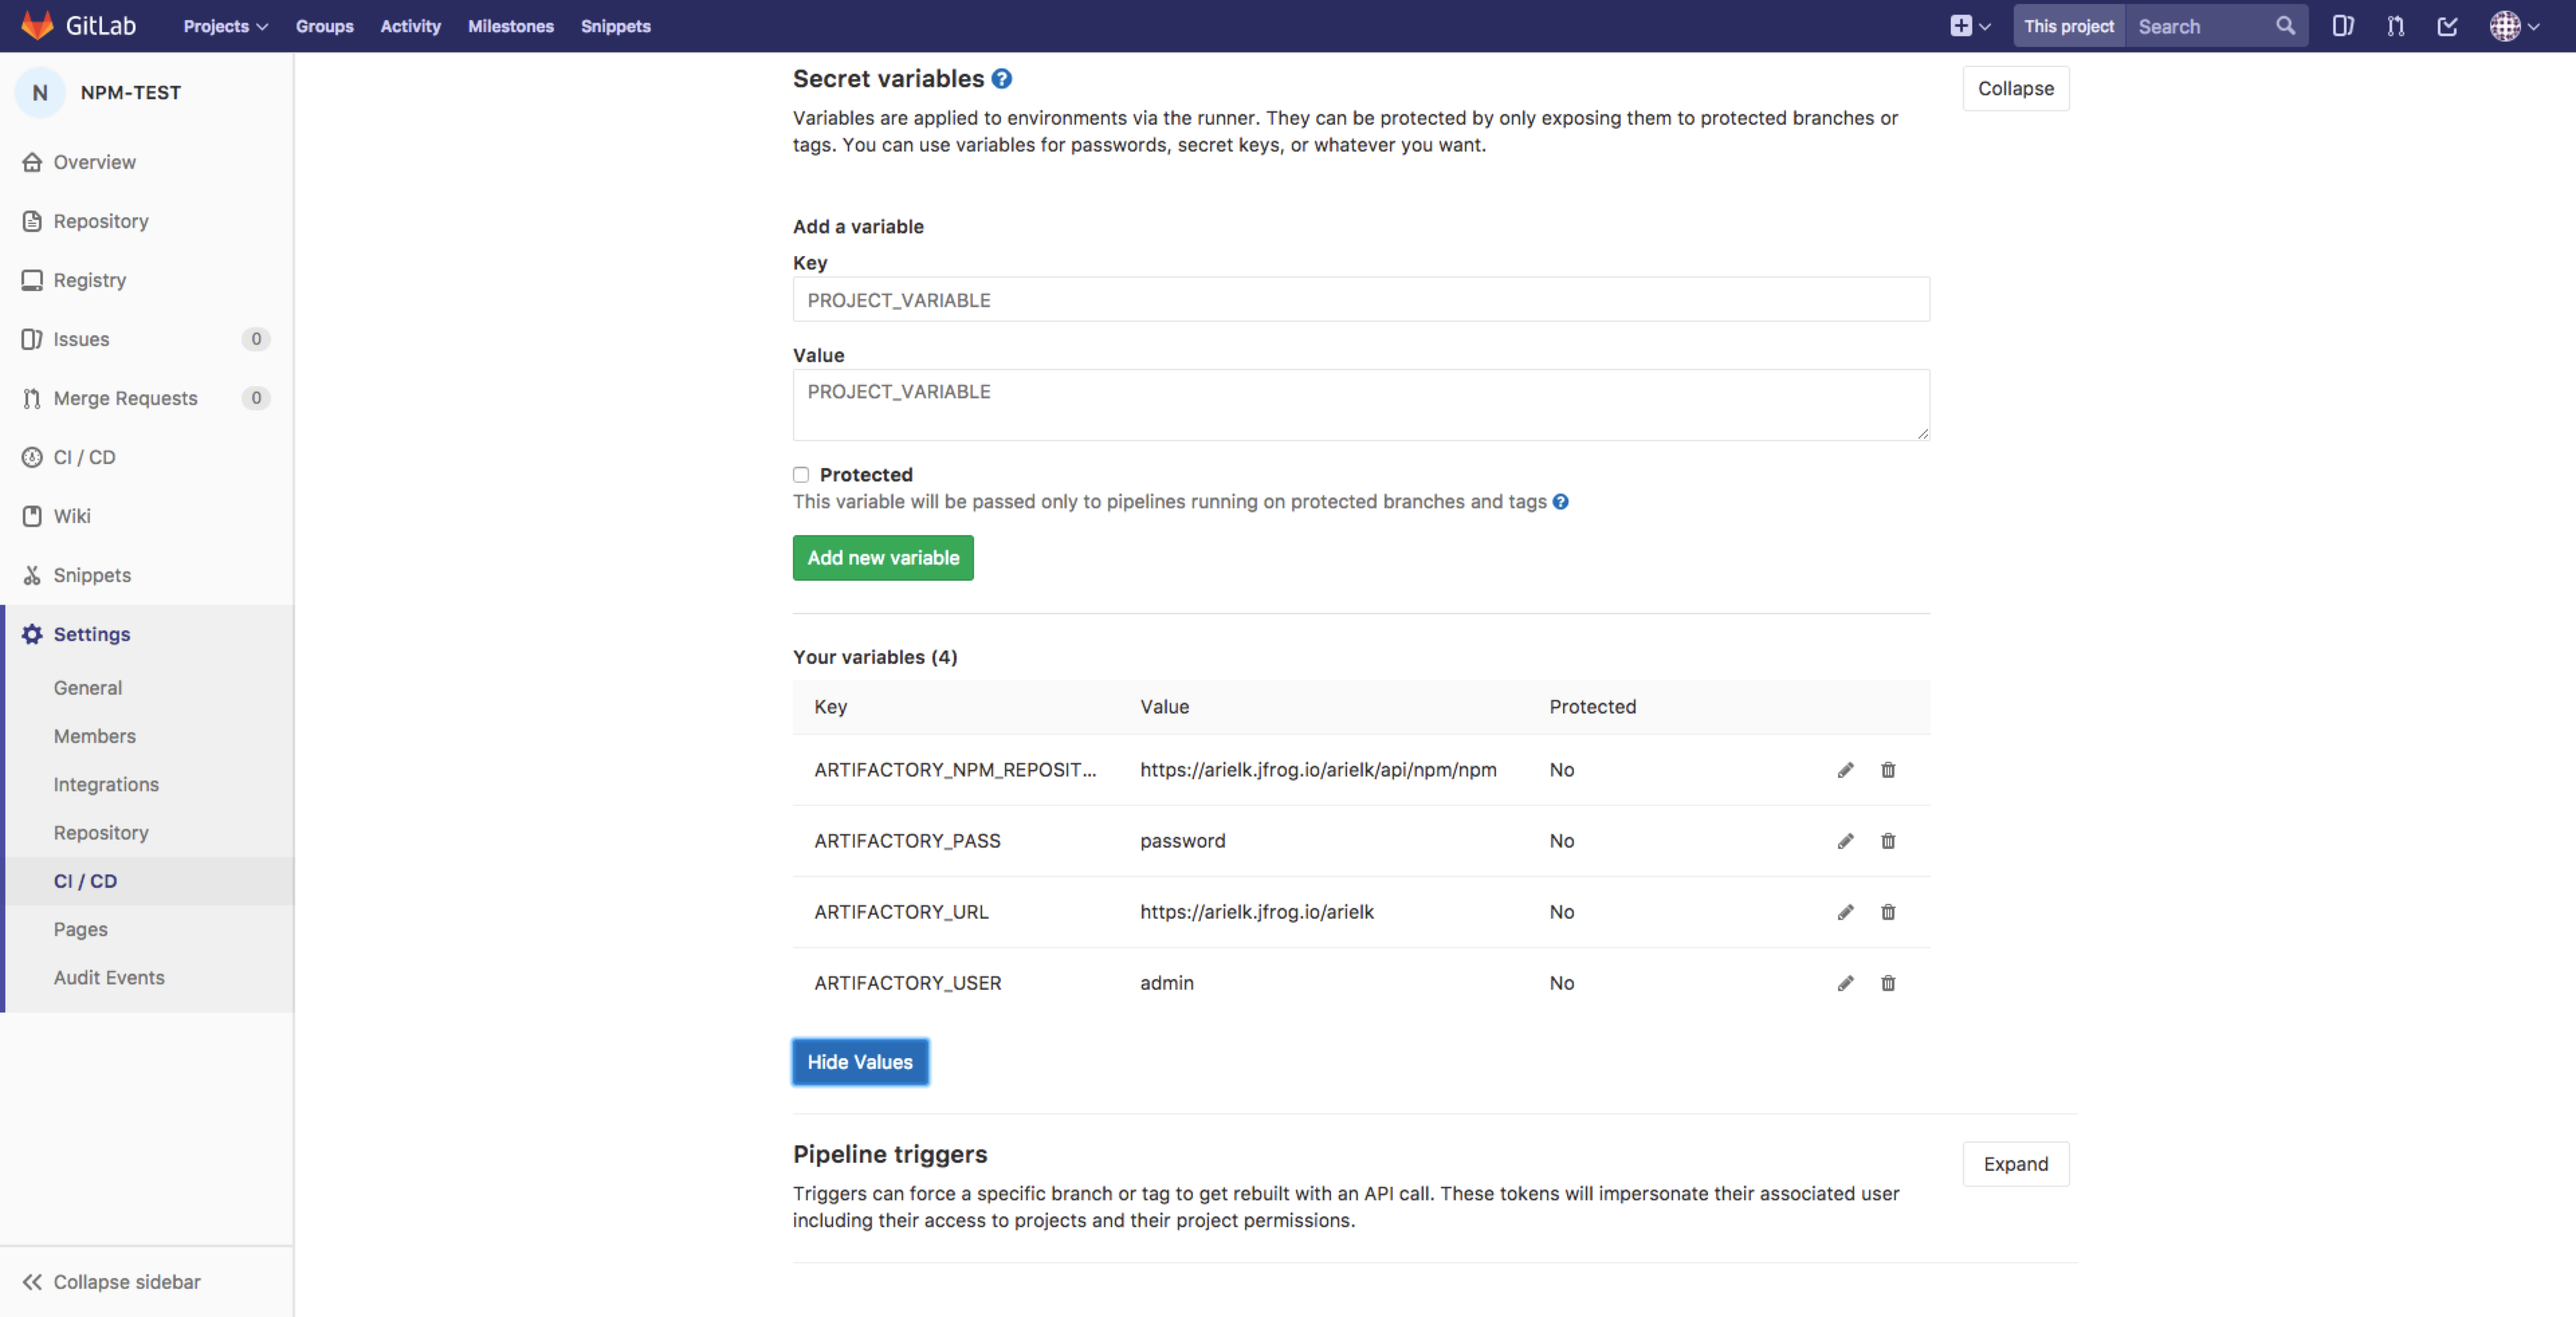
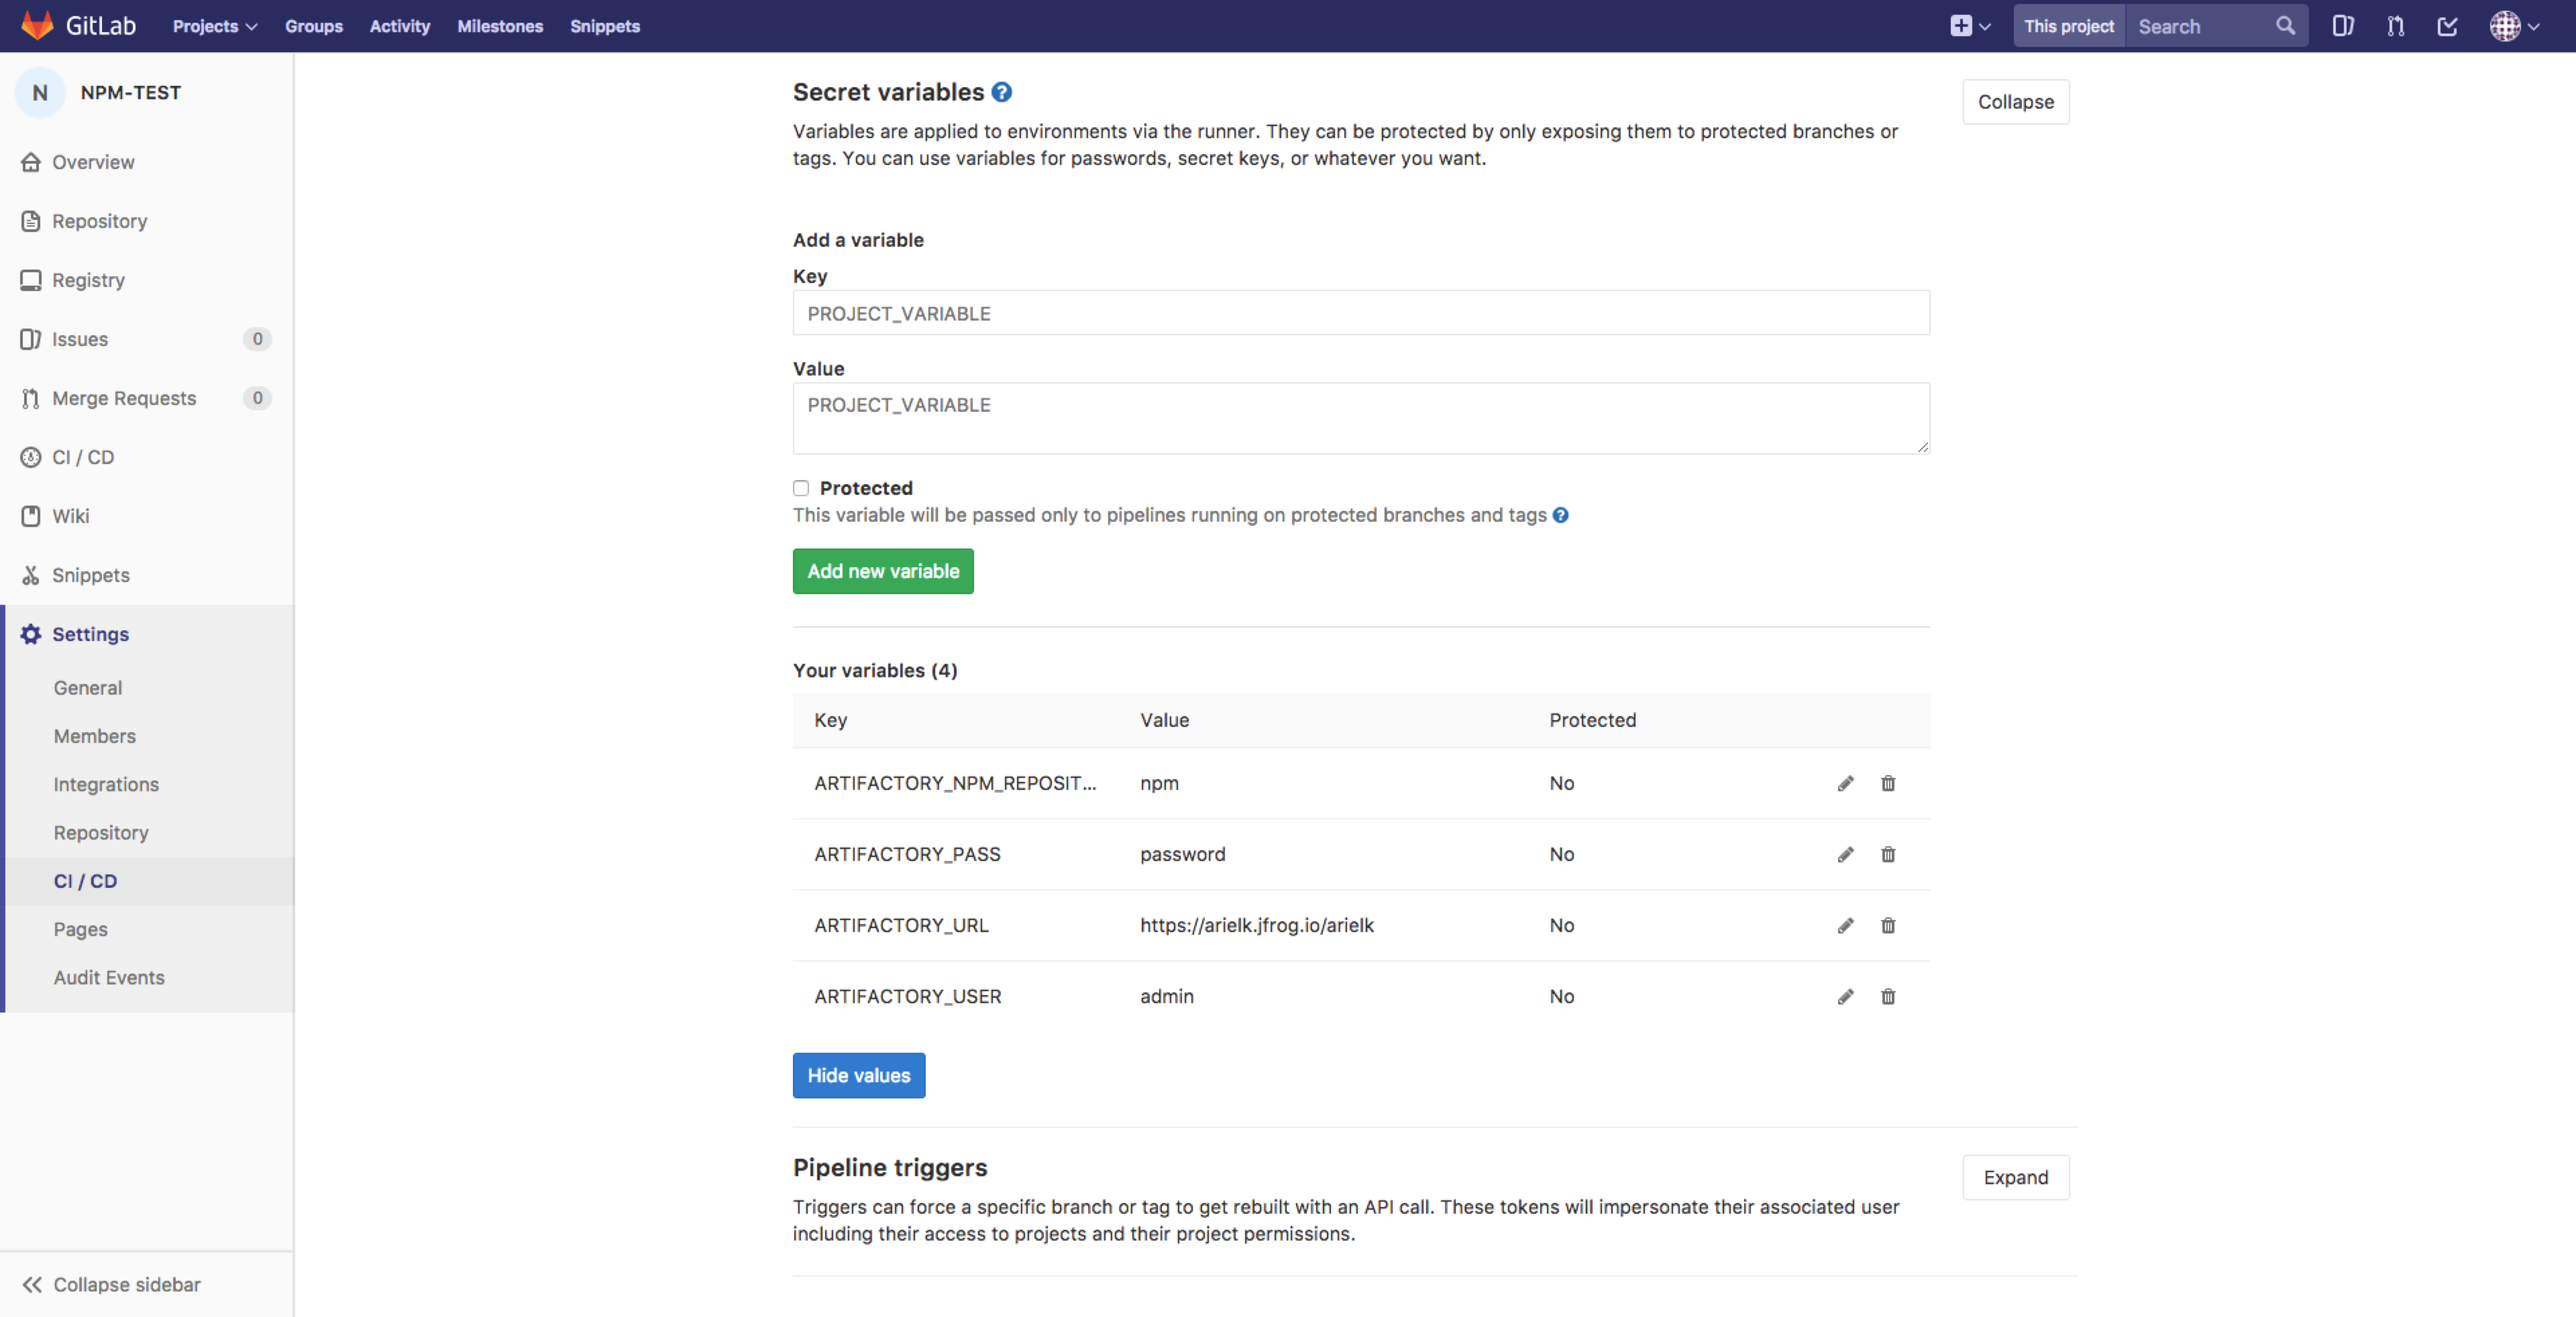
screenshots + docs

diff --git a/gitlabci-example/gitlabci-npm-artifactory/README.md b/gitlabci-example/gitlabci-npm-artifactory/README.md
@@ -8,7 +8,7 @@
 
 #### Step 1:
 
-Configure the following Secret Variables in CI/CD Settings of your NPM project: ARTIFACTORY_URL, ARTIFACTORY_USER, ARTIFACTORY_PASS, NPM_REPOSITORY.
+Configure the following Secret Variables in CI/CD Settings of your NPM project: ARTIFACTORY_URL, ARTIFACTORY_USER, ARTIFACTORY_PASS, ARTIFACTORY_NPM_REPOSITORY.
 ![screenshot](img/Screen_Shot1.png)
 
 #### Step 2:
@@ -17,6 +17,6 @@ Place a .gitlab-ci.yml in the root of your project, following this example.
 
 #### Step 3:
 
-You should be able to see published artifacts in artifactory.
+You should be able to see published artifacts and build info in artifactory.
 
 ![screenshot](img/Screen_Shot2.png)
